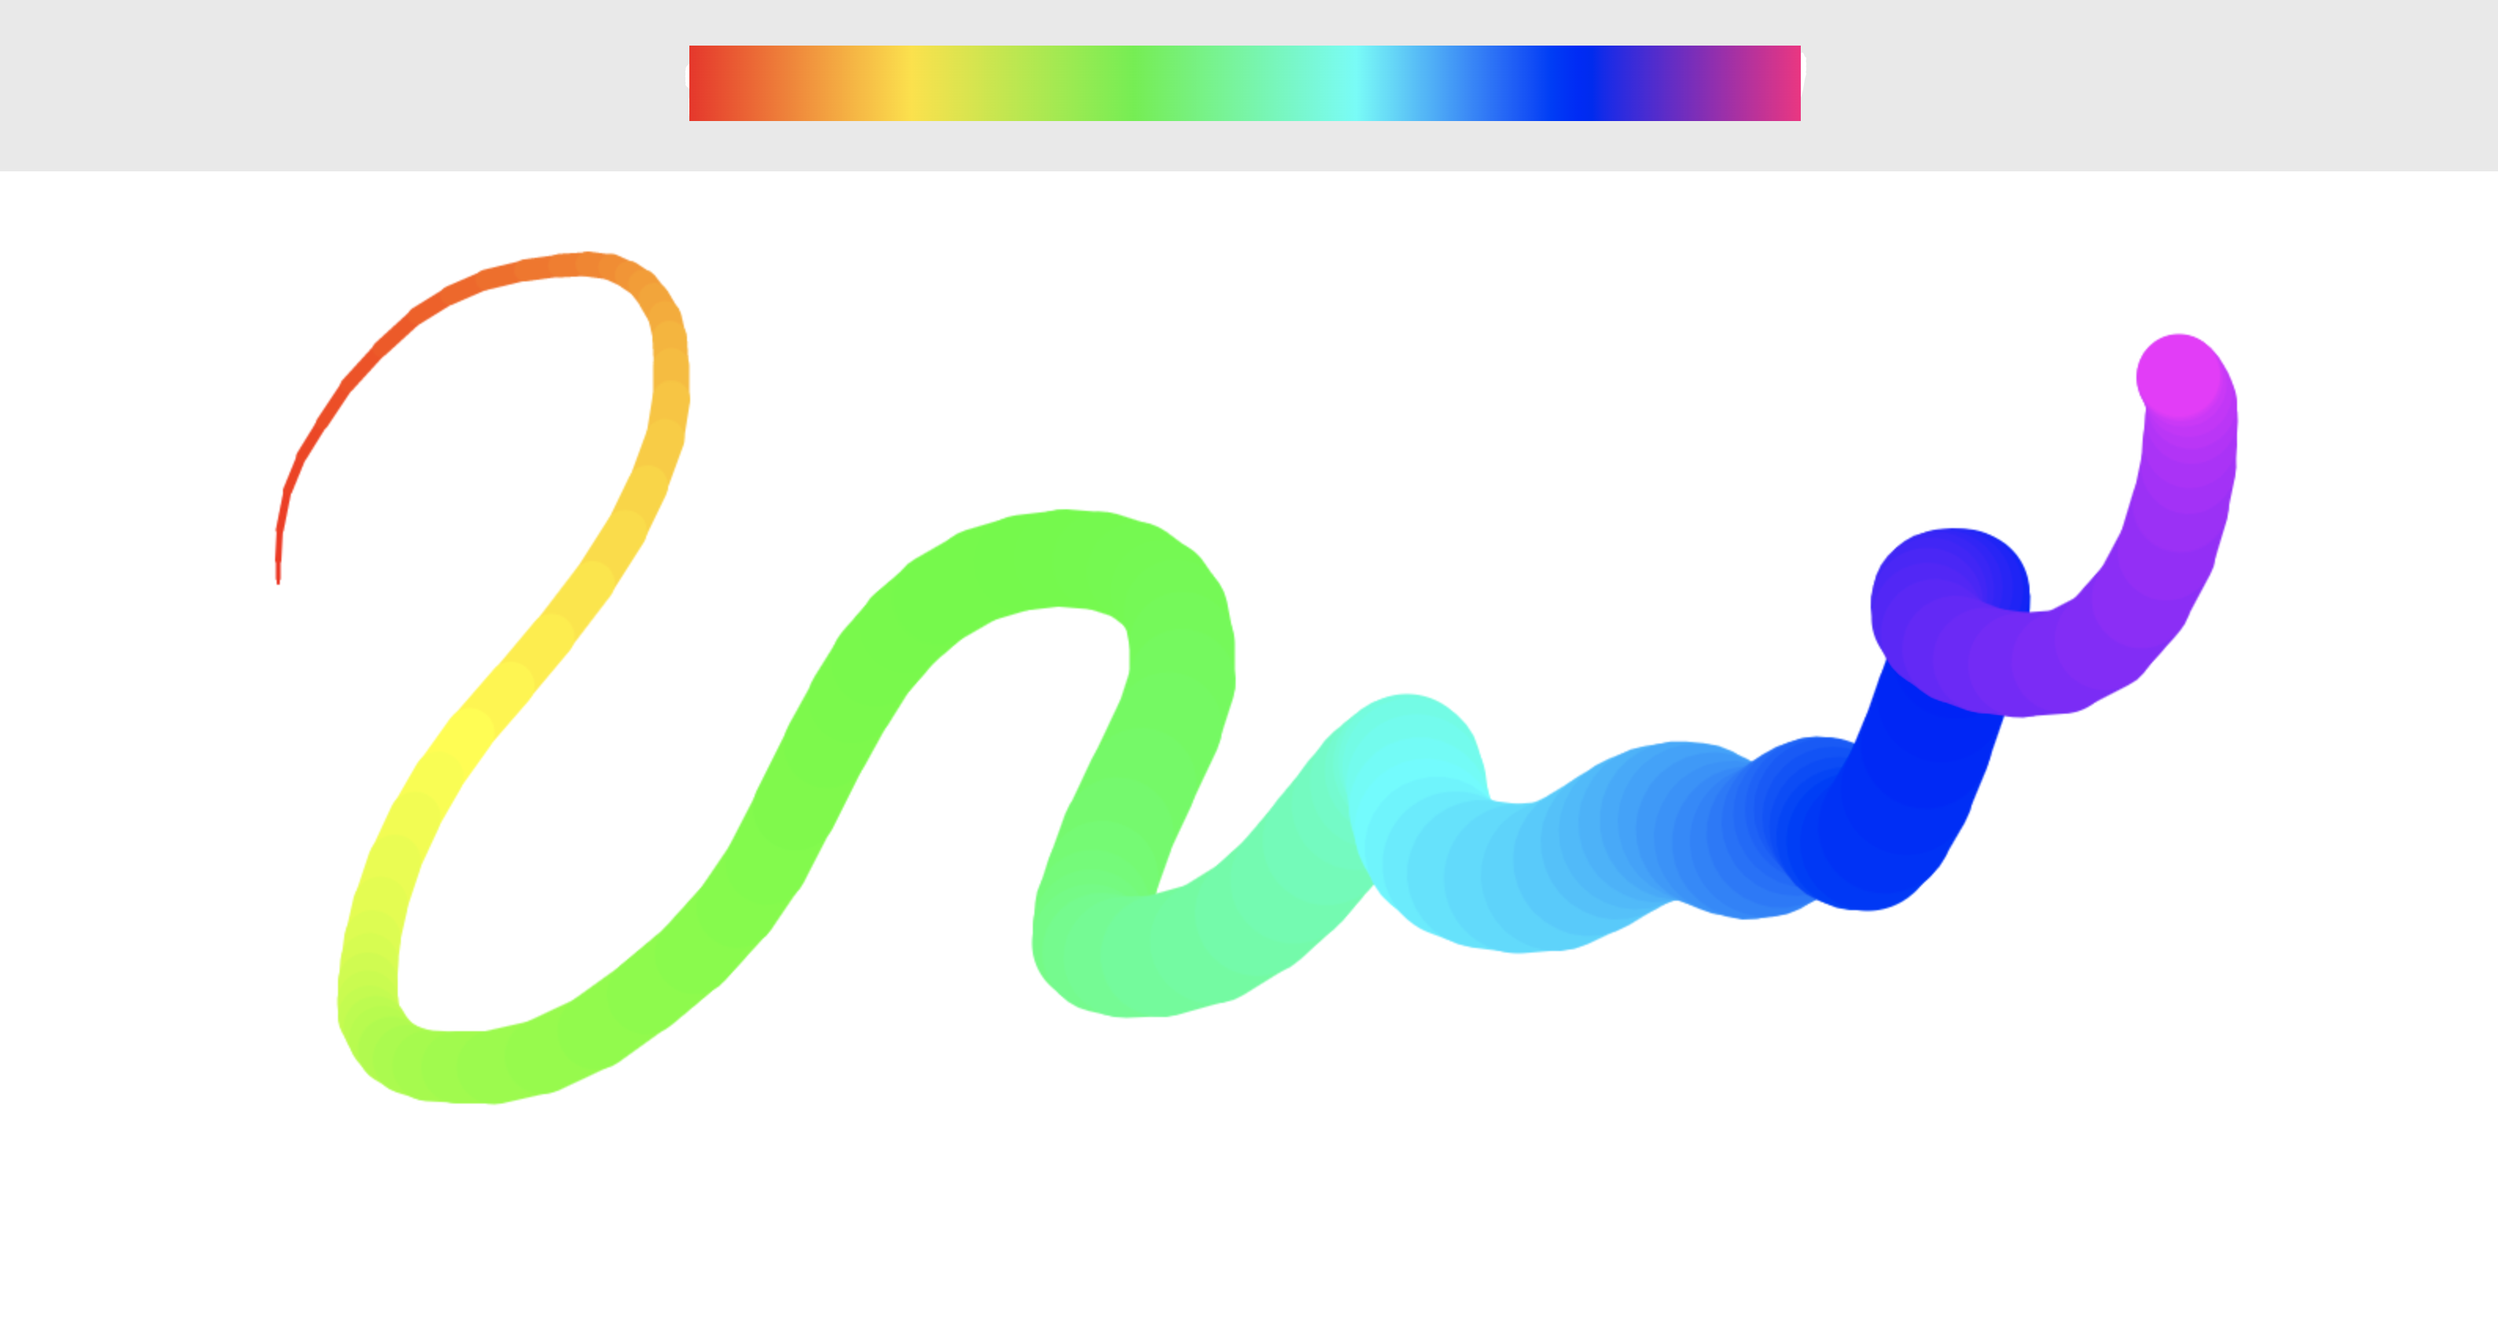
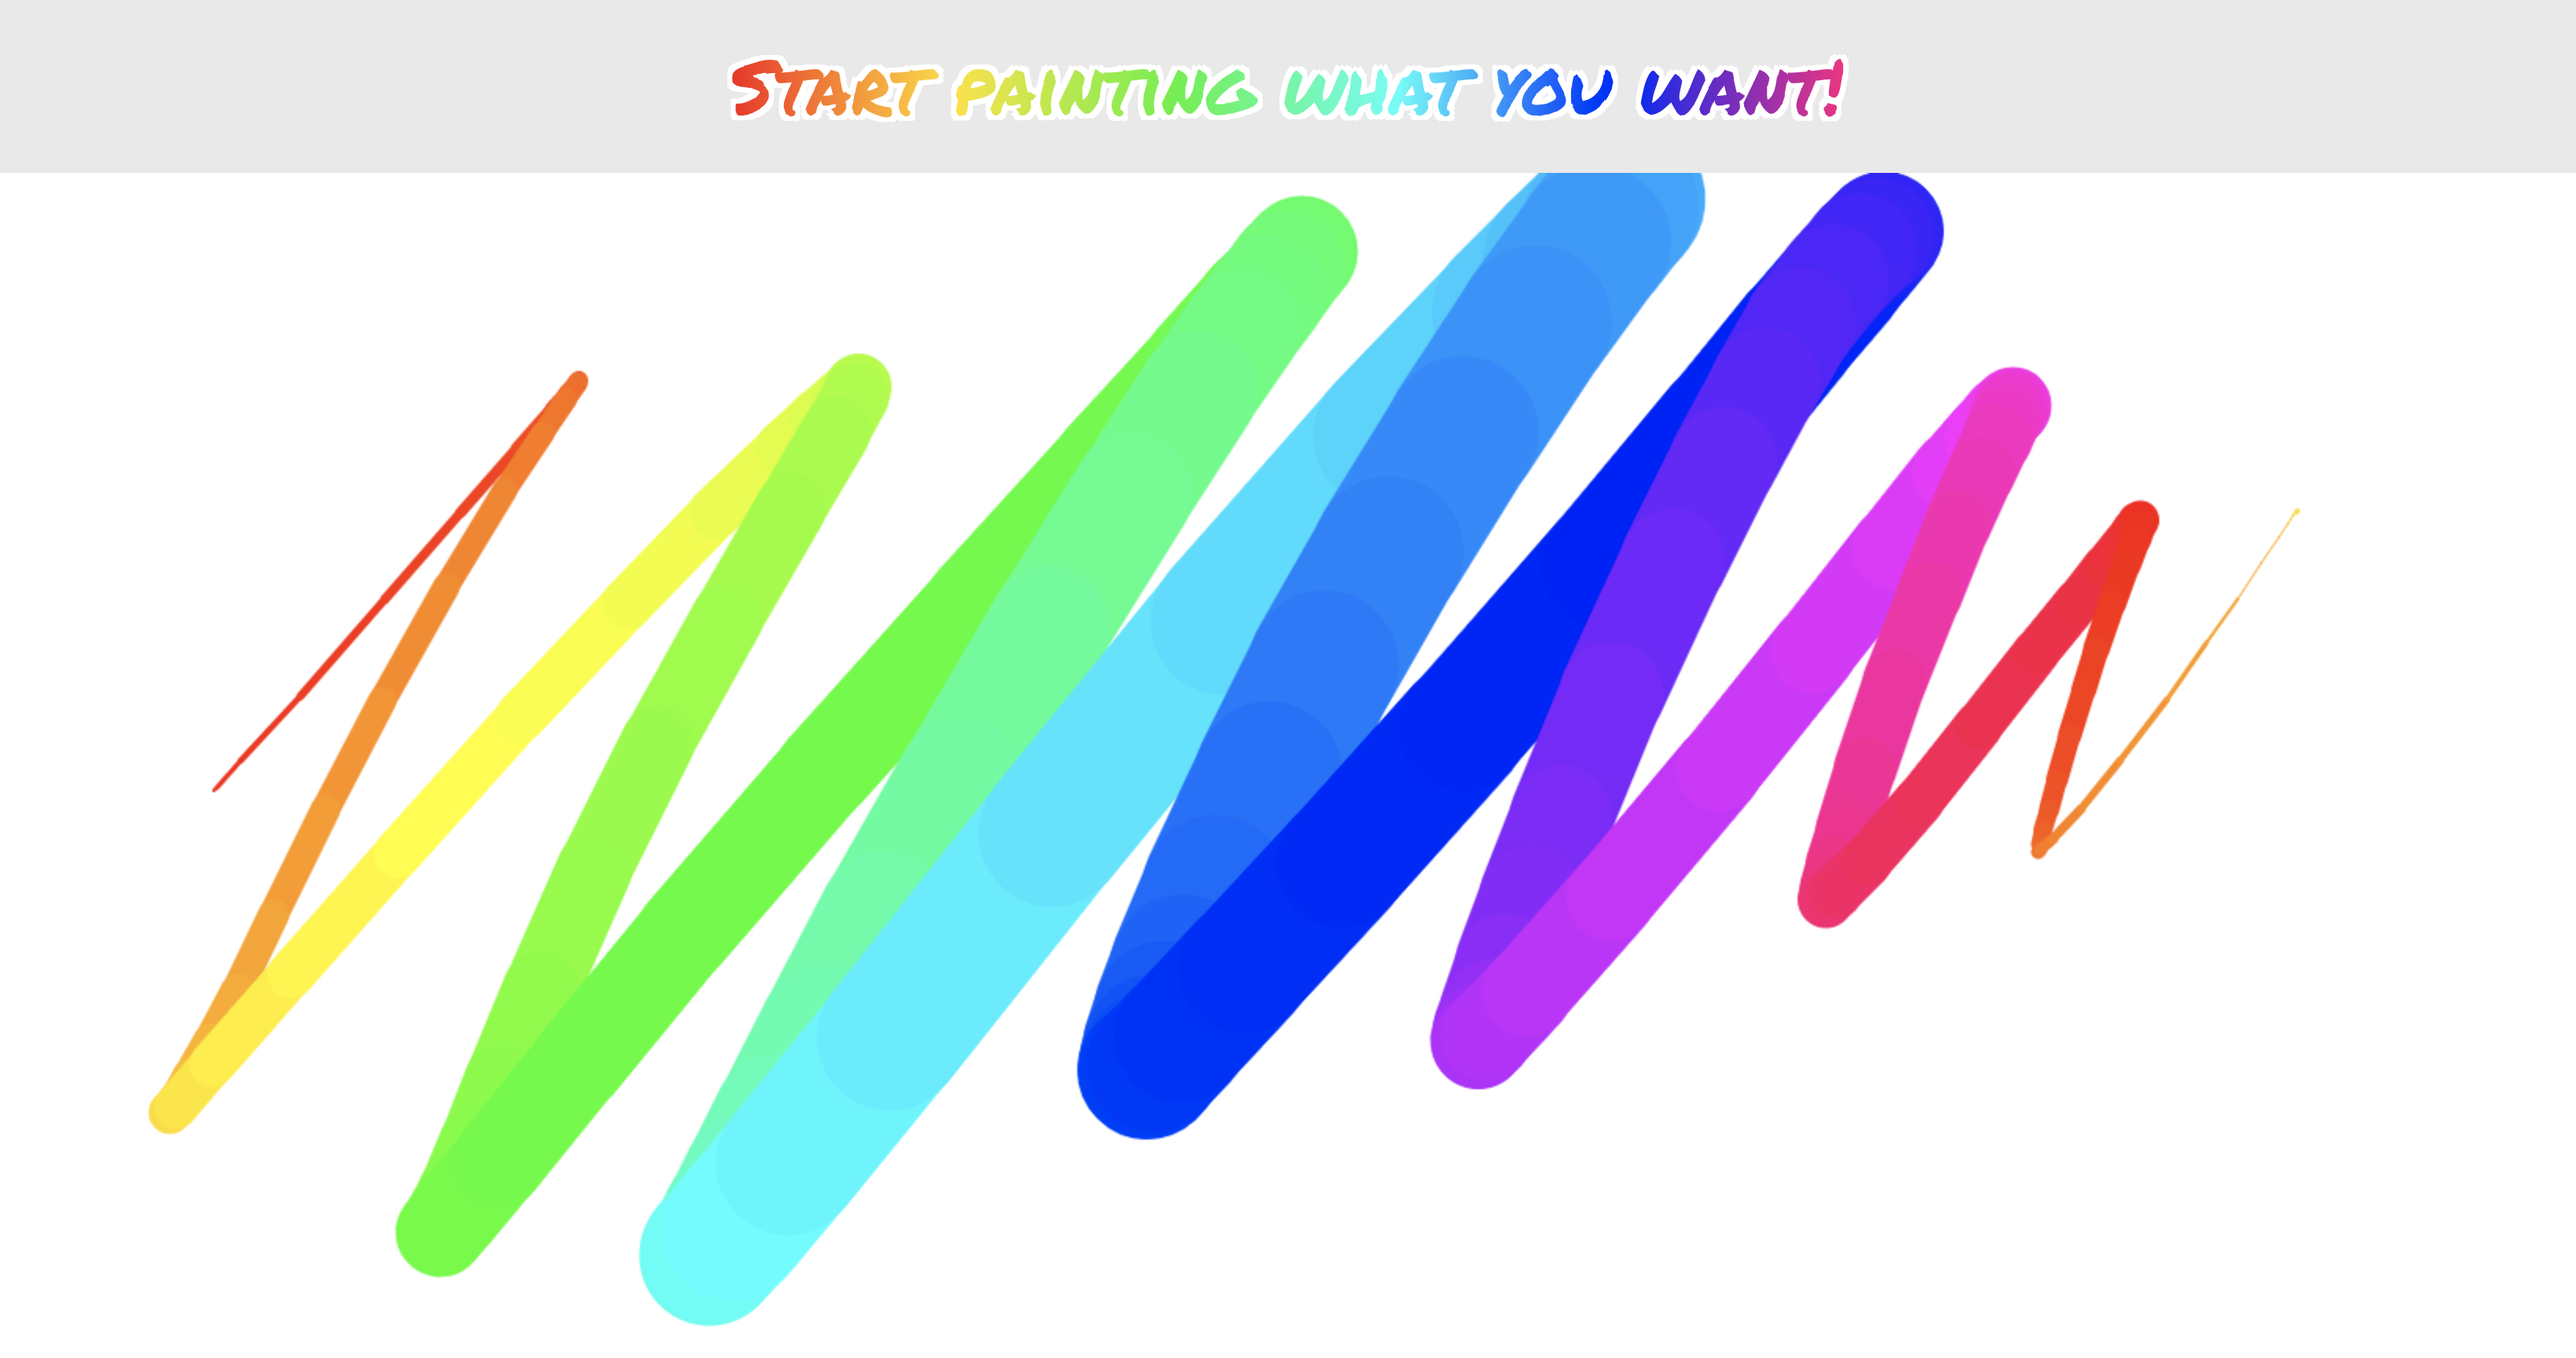
feat: 08 canvas style modify

diff --git a/src/Pages/08Canvas/index.jsx b/src/Pages/08Canvas/index.jsx
@@ -11,7 +11,9 @@ export const CanvasPage = () => {
           {title}
           <div>{title}</div>
         </h2>
-        <CanvasArea />
+        <div className={styles.canvas_area}>
+          <CanvasArea />
+        </div>
       </div>
     </section>
   );

diff --git a/src/Pages/08Canvas/styles.module.scss b/src/Pages/08Canvas/styles.module.scss
@@ -49,8 +49,13 @@
       #0015ff,
       #ff0582
     );
+    -webkit-background-clip: text;
     background-clip: text;
 
     -webkit-text-fill-color: transparent;
   }
+}
+
+.canvas_area {
+  overflow: hidden;
 }
